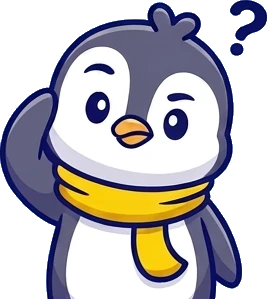
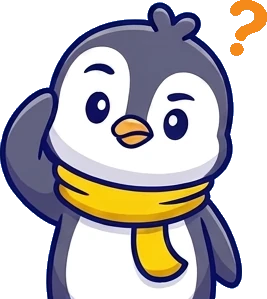
docs: 작동 방식 문서 추가 + 검색 노출용 제목 · 물음표 가독성 수정
- 탭 제목을 슬로건에서 기능 설명으로 교체.
  검색 결과에서 아차차를 처음 보는 사람이 무슨 서비스인지 알 수 있어야 한다.
  슬로건은 화면 안에 그대로 둔다
- docs/how-it-works.md: 지금 동작하는 것만 적은 참고 문서.
  시그널 10종의 실제 상태, 판정 규칙, 한국 특화 부분, 약점까지.
  결정의 이유를 함께 적어 나중에 무심코 되돌리는 걸 막는다
- 마스코트 물음표 재채색: 원본이 몸통과 같은 색(#616280)이라 배경과 구분되지
  않았다. 전역 치환은 펭귄까지 바꾸므로 몸통에서 떨어진 덩어리만 골라 칠한다.
  slice-mascot.py 안에 넣었으므로 시트를 다시 잘라도 유지된다

Changed region(s): [[0.839, 0.0, 1.0, 0.2107]]

diff --git a/app/layout.tsx b/app/layout.tsx
@@ -3,16 +3,31 @@ import "./globals.css";
 
 export const metadata: Metadata = {
   metadataBase: new URL("https://ahchacha.com"),
+  // 탭 제목과 검색 결과 제목은 같은 문자열이다. 아차차를 처음 보는 사람이
+  // 검색 결과에서 이게 뭐 하는 서비스인지 알 수 있어야 하므로, 슬로건이 아니라
+  // 무엇을 해주는 서비스인지를 적는다. 슬로건은 화면 안에서 보여준다.
   title: {
-    default: "아차차 — 누르기 전에, 차차한테 먼저 물어보세요",
-    template: "%s | 아차차",
+    default: "아차차 — 악성 링크 검사 | 피싱·스미싱 URL 확인",
+    template: "%s | 아차차 악성 링크 검사",
   },
   description:
-    "의심스러운 링크를 대신 확인해 드려요. 문자로 온 링크, 단축 주소, 앱 설치 유도까지 눌러보기 전에 검사하세요.",
+    "문자나 메신저로 받은 의심스러운 링크를 눌러보기 전에 대신 확인해 드립니다. 단축 주소를 따라가 최종 목적지를 밝히고, 피싱 사이트·은행 사칭·앱 설치 유도(APK)를 검사해 위험 여부를 알려드려요. 무료, 가입 없이 바로 사용.",
+  keywords: [
+    "악성 링크 검사",
+    "피싱 사이트 확인",
+    "스미싱 확인",
+    "URL 안전 검사",
+    "단축 주소 확인",
+    "문자 링크 검사",
+    "보이스피싱",
+  ],
   openGraph: {
     type: "website",
     siteName: "아차차",
     locale: "ko_KR",
+    title: "아차차 — 악성 링크 검사",
+    description:
+      "의심스러운 링크, 누르기 전에 대신 확인해 드려요. 피싱·스미싱·앱 설치 유도까지 검사합니다.",
   },
   // 검사 결과 페이지는 검색에 노출될 이유가 없다. Sprint 3에서 /s/ 라우트에 개별 적용
   robots: { index: true, follow: true },

diff --git a/scripts/slice-mascot.py b/scripts/slice-mascot.py
@@ -97,6 +97,55 @@ def background_mask(tile: np.ndarray) -> np.ndarray:
     return mask
 
 
+"""물음표를 칠할 색. 마스코트 부리·발의 주황 계열이라 팔레트를 벗어나지 않는다."""
+ACCENT = (245, 138, 26)
+
+"""
+물음표 재채색을 적용할 포즈.
+
+원본 시트의 물음표는 몸통과 같은 회색빛 파랑(#616280)이라 배경과 잘 구분되지 않는다.
+그렇다고 색 전체를 바꾸면 펭귄까지 주황이 되므로, 몸통에서 **떨어져 있는**
+작은 덩어리만 골라 칠한다.
+
+`excited`의 반짝임도 떨어져 있지만 거긴 손대지 않는다 — 반짝임은 파랑이 자연스럽다.
+"""
+RECOLOR_POSES = {"puzzled"}
+
+
+def recolor_detached_marks(rgba: np.ndarray, color: tuple[int, int, int]) -> None:
+    """가장 큰 덩어리(펭귄)를 뺀 나머지 작은 덩어리들의 색을 바꾼다. 제자리 수정."""
+    height, width = rgba.shape[:2]
+    visible = rgba[..., 3] > 16
+    seen = np.zeros((height, width), dtype=bool)
+    components: list[list[tuple[int, int]]] = []
+
+    for start_y in range(height):
+        for start_x in range(width):
+            if not visible[start_y, start_x] or seen[start_y, start_x]:
+                continue
+            queue = deque([(start_y, start_x)])
+            seen[start_y, start_x] = True
+            points = []
+            while queue:
+                y, x = queue.popleft()
+                points.append((y, x))
+                for dy, dx in ((1, 0), (-1, 0), (0, 1), (0, -1)):
+                    ny, nx = y + dy, x + dx
+                    if 0 <= ny < height and 0 <= nx < width:
+                        if visible[ny, nx] and not seen[ny, nx]:
+                            seen[ny, nx] = True
+                            queue.append((ny, nx))
+            components.append(points)
+
+    if len(components) < 2:
+        return
+    components.sort(key=len, reverse=True)
+    # [0]은 펭귄 본체. 나머지가 물음표의 획과 점이다
+    for points in components[1:]:
+        for y, x in points:
+            rgba[y, x, 0:3] = color
+
+
 def main() -> None:
     source = Image.open(SOURCE).convert("RGB")
     pixels = np.asarray(source).astype(int)
@@ -119,7 +168,11 @@ def main() -> None:
             rgba = np.dstack(
                 [tile, np.where(transparent, 0, 255)],
             ).astype(np.uint8)
-            image = Image.fromarray(rgba, mode="RGBA")
+
+            if pose in RECOLOR_POSES:
+                recolor_detached_marks(rgba, ACCENT)
+
+            image = Image.fromarray(rgba)
 
             # 남은 여백을 잘라 포즈마다 크기가 제각각인 캔버스를 없앤다
             bbox = image.getbbox()

diff --git a/docs/how-it-works.md b/docs/how-it-works.md
@@ -1,0 +1,202 @@
+# 아차차는 어떻게 링크를 검사하는가
+
+이 문서는 **지금 실제로 동작하는 것**만 적는다. 계획은 [prd.md](../prd.md)에,
+지켜야 할 규칙은 [CLAUDE.md](../CLAUDE.md)에 있다.
+
+> ⚠ 시그널을 추가·변경하면 이 문서의 표도 함께 고칠 것. 이 문서가 틀리면
+> 무엇이 동작하는지 아무도 모르게 된다.
+
+최종 수정: 2026-08-15 (Sprint 2 완료 시점)
+
+---
+
+## 1. 한 번의 검사에서 일어나는 일
+
+사용자가 주소를 넣고 "검사하기"를 누르면 `POST /api/scan` 하나가 호출되고,
+서버 안에서 아래 순서로 진행된다. **브라우저는 의심 주소에 절대 접속하지 않는다.**
+
+```
+① 정규화        입력 문자열 → 검사 가능한 URL
+                 제로폭 문자 제거, 스킴 보정, 소문자화, 프래그먼트 제거
+                 → 이 결과의 SHA-256이 url_hash (캐시 키)
+
+② SSRF 가드     스킴이 http/https인가, 자격증명이 섞였는가
+                 호스트를 DNS로 해석 → 나온 IP가 전부 공인 대역인가
+                 하나라도 사설/예약이면 여기서 중단
+
+③ 리디렉션 추적  최대 10홉, 총 12초 예산
+                 매 홉마다 ②를 다시 통과시킨다
+                 검증한 IP를 커넥션에 고정해서 연결 (DNS rebinding 차단)
+                 쿠키는 심어준 도메인에만 되돌려 보낸다
+
+④ 시그널 수집    S1·S2·S3·S4를 병렬로 조회
+                 S5·S7·S8은 ③의 결과로 판단 (추가 접속 없음)
+
+⑤ 판정          시그널 → danger / caution / unknown / no_signal
+
+⑥ 설명 생성      Claude Haiku 4.5로 한국어 문장 생성 (5초 제한)
+                 실패하면 템플릿 문구로 대체 — 판정은 그대로 나온다
+```
+
+전체 소요는 실측 1.7~4.0초다. 목표는 8초 이내([prd.md](../prd.md) 9절).
+
+---
+
+## 2. 시그널 10종의 현재 상태
+
+판정에 실제로 쓰이는 것은 **5종**이다. 나머지는 "확인 못 함(`unavailable`)"으로
+결과에 함께 실린다 — 무엇을 확인했고 무엇을 못 했는지가 판정만큼 중요한 정보라서다.
+
+| # | 무엇을 보는가 | 상태 | 히트 시 강도 |
+| --- | --- | --- | --- |
+| S1 | 구글이 아는 악성 주소인가 (Safe Browsing 실시간 조회) | ✅ 동작 | `critical` |
+| S2 | 피싱 신고 목록(OpenPhish)에 있는가 | ✅ 동작 | URL일치 `critical` / 호스트일치 `high` |
+| S3 | 악성코드 배포 목록(URLhaus)에 있는가 | ✅ 동작 | URL일치 `critical` / 호스트일치 `high` |
+| S4 | 도메인이 만들어진 지 30일 미만인가 (RDAP) | ✅ 동작 | `medium` — 단독으로는 판정을 올리지 않음 |
+| S5 | 주소를 여러 번 갈아타며 여러 도메인을 거쳤는가 | ✅ 동작 | `medium` (4홉 이상 & 3개 도메인 이상) |
+| S6 | TLS 인증서 발급일·발급자 | ❌ 미구현 | — |
+| S7 | 유명 기관을 사칭한 도메인인가 | ✅ 동작 | 고신뢰 `critical` / 중 `high` / 저 `low` |
+| S8 | 스토어를 거치지 않고 APK를 내려주는가 | ✅ 동작 | `critical` (정식 스토어면 `high`) |
+| S9 | 사용자 신고가 몇 건 쌓였는가 | ❌ 미구현 (Sprint 3) | **판정에 반영하지 않음** — 표시 전용 |
+| S10 | 백신 다중 검사 (VirusTotal) | ❌ 미구현 | — |
+
+### S9를 판정에 넣지 않는 이유
+
+신고는 "누가 그렇게 주장했다"는 사실이지 객관적 근거가 아니다. 실존 사업자를
+신고 몇 건으로 "위험"으로 표시했다가 오탐이면 명예훼손 분쟁이 된다.
+판정은 엔진 근거로만 내고, 신고는 "사용자 신고 N건"이라는 사실로 따로 표시한다.
+
+---
+
+## 3. 시그널이 판정으로 바뀌는 규칙
+
+위에서부터 순서대로 검사하고, 먼저 걸리는 것으로 확정한다.
+
+| 순서 | 조건 | 판정 |
+| --- | --- | --- |
+| 1 | `critical` 히트가 하나라도 있음 | 🚨 `danger` |
+| 2 | 신규 도메인(S4) + 다른 히트 1개 이상 | ⚠ `caution` |
+| 3 | `high` 히트가 있음 | ⚠ `caution` |
+| 4 | 리디렉션 추적이 실패함 | 🤔 `unknown` |
+| 5 | 확인된 시그널이 2개 미만 | 🤔 `unknown` |
+| 6 | 그 외 | ✅ `no_signal` |
+
+**`no_signal`은 "안전"이 아니다.** "지금 확인한 범위에서 위험 신호가 없었다"는
+뜻이고, 화면에도 그렇게만 쓴다. 새 피싱 페이지는 계속 생기고, 피싱 사이트는
+방문자에 따라 다른 페이지를 보여주는 클로킹을 쓰기 때문이다.
+
+**신규 도메인 단독으로는 판정을 올리지 않는다.** 정상 서비스도 새로 열린다.
+단독 판정하면 그 순간 오탐이 발생한다.
+
+---
+
+## 4. 한국 특화 — 이게 실질적 차별점
+
+글로벌 검사 도구들이 잘 못 잡는 영역이다.
+
+### 브랜드 사칭 탐지 (S7)
+
+은행 17 · 카드 8 · 택배 5 · 정부 11 · 통신 3 · 커머스 6 · 간편결제 3,
+총 **53개 브랜드**의 정식 도메인을 목록으로 갖고 네 가지를 본다.
+
+| 수법 | 예시 | 신뢰도 |
+| --- | --- | --- |
+| 서브도메인 사칭 | `kbstar.evil.com` | 고 |
+| Homoglyph 치환 | `kbst4r.com`, 키릴 문자 `cоupаng.com` | 고 |
+| 한 글자 차이 | `kbstat.com` | 고 |
+| 두 글자 차이 | `kbsttat.com` | 중 |
+| 경로에만 브랜드명 | `random.com/kbstar/login` | 저 |
+
+오탐을 막는 장치가 둘 있다.
+
+1. **짧은 라벨은 편집거리 비교에서 뺀다.** `kt`, `ibk` 같은 3글자 라벨은
+   무관한 도메인과도 거리가 1~2로 나와서 그대로 쓰면 오탐 공장이 된다.
+2. **정식 도메인은 즉시 통과**시킨다. 없으면 `www.kbstar.com`이 사칭으로 잡힌다.
+
+> 퓨니코드를 되돌린 뒤에 비교한다. URL 파서가 키릴 문자 호스트를 `xn--`로
+> 바꿔버리기 때문에, 이 과정이 없으면 키릴 문자 사칭이 전부 빠져나간다.
+
+### APK 유도 탐지 (S8)
+
+문자 → 단축 URL → APK 설치는 한국 스미싱 피해의 주 경로인데 다른 서비스가
+거의 안 잡는다. 최종 목적지의 Content-Type이나 파일명, 이동 경로에 `.apk`가
+있으면 위험으로 본다.
+
+F-Droid·원스토어·삼성 갤럭시스토어만 예외로 두고 `caution`으로 낮춘다.
+**GitHub Releases나 클라우드 드라이브는 넣지 않는다** — 공격자가 가장 흔히
+쓰는 배포처라 목록에 넣는 순간 그게 우회 경로가 된다.
+
+### 국내 사이트가 검사되게 만든 것 2가지
+
+둘 다 정상 사이트가 "검사 불가"로 빠지던 문제였다.
+
+- **쿠키 관문**: 국내 은행·정부 사이트는 쿠키를 심고 같은 주소로 302를 돌려주는
+  패턴이 흔하다. 쿠키를 안 보내면 무한히 제자리를 맴돈다. 체인 동안만 쓰는
+  최소 쿠키 저장소를 두되, 쿠키는 심어준 도메인에만 되돌려 보낸다.
+- **구형 TLS**: OpenSSL 3가 기본 차단하는 legacy renegotiation을 허용한다.
+  이게 없으면 현대카드 같은 곳이 전부 "응답 없음"이 된다.
+
+---
+
+## 5. 이 서비스 자체를 지키는 장치
+
+악성 URL에 일부러 접속하는 서비스라 스스로가 공격 표면이다.
+
+| 위협 | 대응 |
+| --- | --- |
+| 내부망·클라우드 메타데이터 접근 | 사설·예약 IP 대역 전부 차단 (169.254.169.254 포함) |
+| IPv6로 감싼 우회 | `::ffff:127.0.0.1`, 16진 표기, NAT64까지 차단 |
+| DNS rebinding | 검증한 IP를 커넥션에 고정. 연결 시점에 DNS를 다시 안 본다 |
+| 리디렉션으로 가드 우회 | 자동 추적을 끄고 매 홉을 다시 검증 |
+| 세션 값 유출 | 쿠키는 심어준 등록가능 도메인에만 전송 |
+| 무한 응답·느린 응답 | 본문 512KB 상한, 홉당 6초·전체 12초 |
+| 남용 | IP당 분당 10회 |
+
+브라우저는 의심 URL에 접속하지 않는다. 우리 서버에만 요청을 보낸다.
+
+---
+
+## 6. 화면에서 지키는 원칙
+
+기술이 아니라 신뢰의 문제라 코드로 강제하기 어렵다. 그래서 규칙으로 남긴다.
+
+1. **"안전합니다"라고 쓰지 않는다.** 검사 시점 기준이라는 걸 항상 병기한다.
+2. **위험 판정 화면에는 마스코트를 쓰지 않는다.** 귀여움은 진입장벽을 낮추는
+   장치이지 경고를 무르게 만드는 장치가 아니다. 결과 화면의 두 레이아웃을
+   하나로 합치면 이 규칙이 깨진다.
+3. **검사한 주소를 클릭 가능한 링크로 만들지 않는다.** 도메인은 부분 마스킹하고,
+   설명 문장에도 원본 주소를 그대로 쓰지 않는다.
+4. **오탐이 미탐보다 비싸다.** 오탐 1건이 신뢰를 무너뜨린다.
+5. **판정과 신고를 섞어 표시하지 않는다.**
+
+---
+
+## 7. 아직 없는 것
+
+| 기능 | 언제 |
+| --- | --- |
+| 사용자 신고, 관리자 검토 큐 | Sprint 3 |
+| 사이트 스크린샷 (격리 워커) | Sprint 3 |
+| 결과 공유 카드, `/s/{shortId}` | Sprint 3 |
+| 이의제기 창구, 이용약관·개인정보처리방침 | Sprint 3 |
+| 검사 기록 (로컬 저장) | Sprint 4 |
+| 앱 (공유 시트, 클립보드 감지) | Sprint 4 |
+| TLS 인증서 확인 (S6), VirusTotal (S10) | 미정 |
+
+Sprint 3부터 PostgreSQL이 처음 필요해진다. 지금까지는 무상태다.
+
+---
+
+## 8. 알려진 약점
+
+정직하게 적어둔다.
+
+- **브랜드 도메인 53개가 아직 사람 눈으로 검증되지 않았다.** `verified: false`.
+  하나라도 틀리면 정상 사이트가 사칭으로 잡히거나(오탐), 오타 도메인을 산
+  공격자가 정식으로 통과한다(우회).
+- **피드가 하루 1회만 갱신된다.** Vercel Hobby 플랜 제약. 오전에 신고된 피싱
+  URL은 다음 새벽까지 S2·S3에 없다. 실시간 조회인 S1이 이 구간을 메운다.
+- **Safe Browsing v4는 검사한 주소 전체를 구글로 보낸다.** v5는 해시 앞부분만
+  보내지만 구현이 무겁다. 개인정보처리방침에 이 사실을 적어야 한다.
+- **스크린샷이 없어서** 사용자가 그 사이트가 어떻게 생겼는지 볼 수 없다.
+- **검사 기록이 남지 않는다.** 매번 새로 검사한다.
